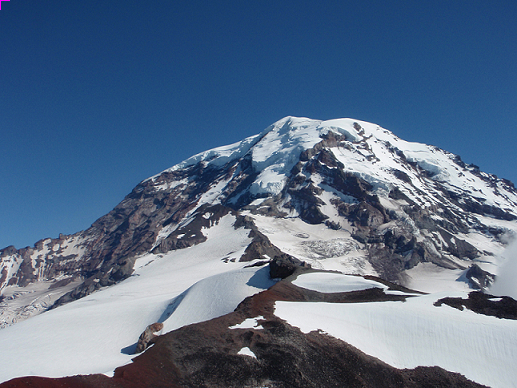
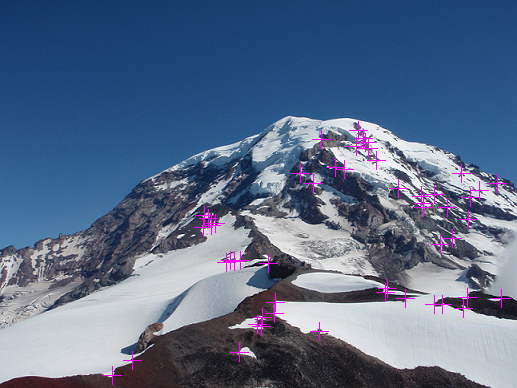
3.4 finished

diff --git a/src/hw3/harris_image.c b/src/hw3/harris_image.c
@@ -159,6 +159,18 @@ image nms_image(image im, int w)
     //     for neighbors within w:
     //         if neighbor response greater than pixel response:
     //             set response to be very low (I use -999999 [why not 0??])
+    for(int i = 0; i < r.h; i++){
+        for(int j = 0; j < r.w; j++){
+            float this_value = get_pixel(r, j, i, 0);
+            for(int m = -w; m < w + 1; m++){
+                for(int n = -w; n < w + 1; n++){
+                    if(get_pixel(r, j+m, i+n, 0) > this_value){
+                        set_pixel(r, j, i, 0, -999999);
+                    }
+                }
+            }
+        }
+    }
     return r;
 }
 
@@ -182,13 +194,29 @@ descriptor *harris_corner_detector(image im, float sigma, float thresh, int nms,
 
 
     //TODO: count number of responses over threshold
-    int count = 1; // change this
+    int count = 0;
+    for(int i = 0; i < Rnms.h; i++){
+        for(int j = 0; j < Rnms.w; j++){
+            float this_pixel = get_pixel(Rnms, j, i, 0);
+            if(this_pixel > thresh){
+                count++;
+            }
+        }
+    }
 
-    
     *n = count; // <- set *n equal to number of corners in image.
     descriptor *d = calloc(count, sizeof(descriptor));
     //TODO: fill in array *d with descriptors of corners, use describe_index.
-
+    count = 0;
+    for(int i = 0; i < Rnms.h; i++){
+        for(int j = 0; j < Rnms.w; j++){
+            float this_pixel = get_pixel(Rnms, j, i, 0);
+            if(this_pixel > thresh){
+                d[count] = describe_index(Rnms, get_offset(Rnms, j, i, 0));
+                count++;
+            }
+        }
+    }
 
     free_image(S);
     free_image(R);
